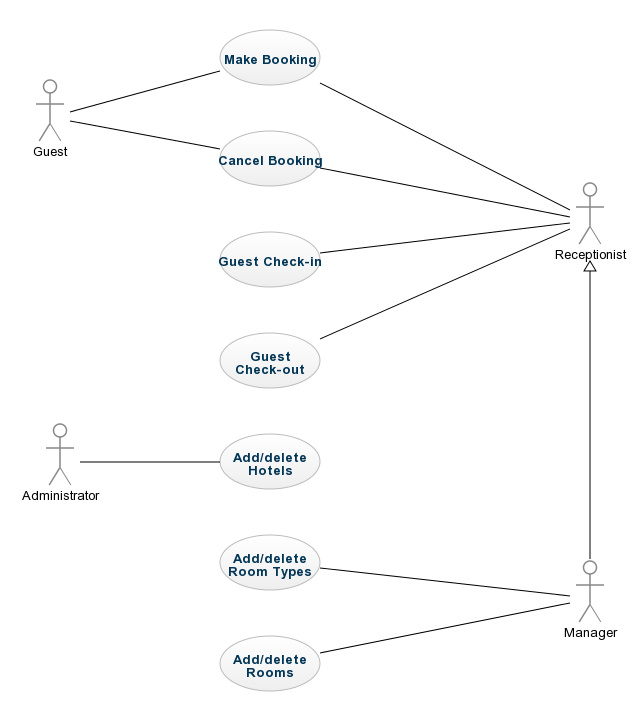
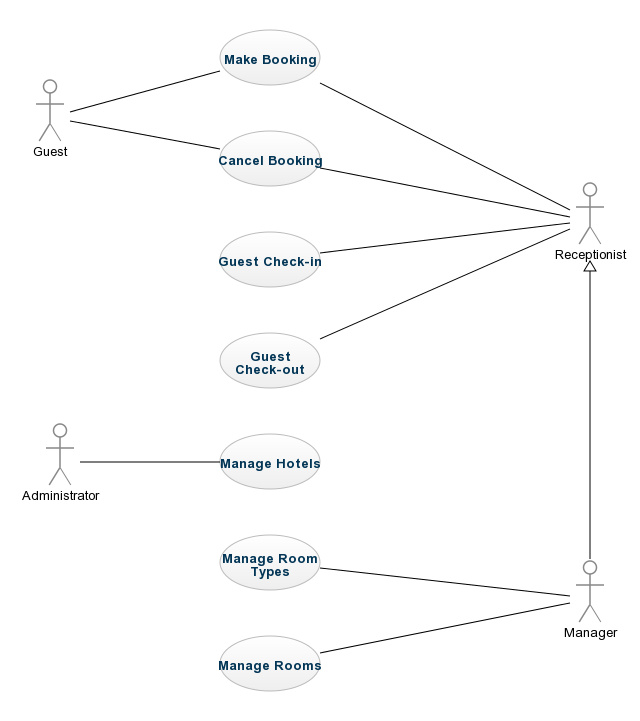
commit by markheydon using genmymodel: v20180706_191425

Changed region(s): [[0.3438, 0.6103, 0.5, 0.6713], [0.3438, 0.7628, 0.5, 0.8239], [0.3438, 0.8849, 0.5, 0.9459]]

diff --git a/model/index.html b/model/index.html
@@ -5,7 +5,7 @@
         
         <h2>Description</h2>
             <p>Simple hotel booking system meant as a starting point for a more customised solution.</p>
-        context Booking
+        TODO: Booking and Room requires some kind of status for recording the fact the Booking is active -- i.e. the guest(s) have checked-in/out.  See Use Cases for check-in and check-out.context Booking
           inv: self.numberOfNights > 0
           inv: self.checkInDate < self.checkOutDate
         
@@ -15,9 +15,6 @@
         <h2>Classifier Descriptions</h2>
         
         <ul>
-            <li> <a href='../model/Add/delete Hotels.html'>Add/delete Hotels</a>
-            <li> <a href='../model/Add/delete Room Types.html'>Add/delete Room Types</a>
-            <li> <a href='../model/Add/delete Rooms.html'>Add/delete Rooms</a>
             <li> <a href='../model/Address.html'>Address</a>
             <li> <a href='../model/Administrator.html'>Administrator</a>
             <li> <a href='../model/Booking.html'>Booking</a>
@@ -30,6 +27,9 @@
             <li> <a href='../model/Hotel.html'>Hotel</a>
             <li> <a href='../model/HotelBusiness.html'>HotelBusiness</a>
             <li> <a href='../model/Make Booking.html'>Make Booking</a>
+            <li> <a href='../model/Manage Hotels.html'>Manage Hotels</a>
+            <li> <a href='../model/Manage Room Types.html'>Manage Room Types</a>
+            <li> <a href='../model/Manage Rooms.html'>Manage Rooms</a>
             <li> <a href='../model/Manager.html'>Manager</a>
             <li> <a href='../model/PersonName.html'>PersonName</a>
             <li> <a href='../model/Real.html'>Real</a>

diff --git a/model/Booking.html b/model/Booking.html
@@ -11,13 +11,13 @@
         
         <h2>Attributes</h2>
         <dl>
-            <dt> bookingDate : Date</dt>
+            <dt> bookingDate : <a href='../model/Date.html'>Date</a></dt>
                 <dd><p>Date the booking was originally made.</p>
         </dd>
-                    <dt> checkInDate : Date</dt>
+                    <dt> checkInDate : <a href='../model/Date.html'>Date</a></dt>
                 <dd><p>The date the guest(s) are due to arrive and check-in to the hotel.</p>
         </dd>
-                    <dt> checkOutDate : Date</dt>
+                    <dt> checkOutDate : <a href='../model/Date.html'>Date</a></dt>
                 <dd><p>The date the guest(s) are due to check-out of the hotel and leave.</p>
         </dd>
                     <dt> /numberOfNights : Integer</dt>
@@ -29,13 +29,13 @@
         
         <h2>Associations</h2>
         <dl>
-            <dt> guest : Guest</dt>
+            <dt> hotel : <a href='../model/Hotel.html'>Hotel</a></dt>
                 <dd>  <i>No desription</i></dd>
-                    <dt> hotel : Hotel</dt>
+                    <dt> room : <a href='../model/Room.html'>Room</a></dt>
                 <dd>  <i>No desription</i></dd>
-                    <dt> roomType : RoomType</dt>
+                    <dt> guest : <a href='../model/Guest.html'>Guest</a></dt>
                 <dd>  <i>No desription</i></dd>
-                    <dt> room : Room</dt>
+                    <dt> roomType : <a href='../model/RoomType.html'>RoomType</a></dt>
                 <dd>  <i>No desription</i></dd>
                 
         </dl>

diff --git a/model/Guest Check-in.html b/model/Guest Check-in.html
@@ -6,14 +6,28 @@
         
         
         <h2>Description</h2>
-              <i>No desription</i>
+            <p>A guest arrives at the hotel at the specific time in a booking.</p>
+        
+        <ol>
+        	<li>The guest provides to the Receptionist a booking reference number of their name.</li>
+        	<li>The Receptionist enter the details to find the booking.</li>
+        	<li>The system retrieves the booking.</li>
+        	<li>The user confirms the check-in with the Guest to make sure the room types and duration are correct.
+        	<ol>
+        		<li><em>Booking details incorrect</em>: The Receptionist would have to potentially cancel and re-book depending on the problem.</li>
+        	</ol>
+        	</li>
+        	<li>The system records the fact the Guest(s) have checked-in.</li>
+        	<li>The Receptionist gives the room keys (or other relevant material) to the guest.</li>
+        </ol>
+        
         
         <h2>Attributes</h2>
         No additional attributes
         
         <h2>Associations</h2>
         <dl>
-            <dt> receptionist : Receptionist</dt>
+            <dt> receptionist : <a href='../model/Receptionist.html'>Receptionist</a></dt>
                 <dd>  <i>No desription</i></dd>
                 
         </dl>

diff --git a/model/Cancel Booking.html b/model/Cancel Booking.html
@@ -6,16 +6,26 @@
         
         
         <h2>Description</h2>
-              <i>No desription</i>
+            <p>A booking is cancelled.</p>
+        
+        <ol>
+        	<li>A Guest or Receptionist requests to cancel a booking.</li>
+        	<li>The user enters the booking reference number or the dates and guest name to find the booking.</li>
+        	<li>The system retrieves the booking.</li>
+        	<li>The user confirms they want to cancel the booking.</li>
+        	<li>The system cancels the booking by de-allocating the rooms.</li>
+        	<li>The booking is cancelled and the user is informed.</li>
+        </ol>
+        
         
         <h2>Attributes</h2>
         No additional attributes
         
         <h2>Associations</h2>
         <dl>
-            <dt> guest : Guest</dt>
+            <dt> guest : <a href='../model/Guest.html'>Guest</a></dt>
                 <dd>  <i>No desription</i></dd>
-                    <dt> receptionist : Receptionist</dt>
+                    <dt> receptionist : <a href='../model/Receptionist.html'>Receptionist</a></dt>
                 <dd>  <i>No desription</i></dd>
                 
         </dl>

diff --git a/model/Guest Check-out.html b/model/Guest Check-out.html
@@ -6,14 +6,25 @@
         
         
         <h2>Description</h2>
-              <i>No desription</i>
+            <p>A guest is ready to leave the hotel and checks-out.</p>
+        
+        <ol>
+        	<li>The guest request to check-out.</li>
+        	<li>The Receptionist enters the room name(/number).</li>
+        	<li>The system retrieves the details.</li>
+        	<li>The Receptionist deals with any billing issues -- outside the scope of the system at this point.</li>
+        	<li>The guest pays the bill -- again outside the scope.</li>
+        	<li>The user confirms the check-out.</li>
+        	<li>The system records the check-out against the Room(s) and the Booking.</li>
+        </ol>
+        
         
         <h2>Attributes</h2>
         No additional attributes
         
         <h2>Associations</h2>
         <dl>
-            <dt> receptionist : Receptionist</dt>
+            <dt> receptionist : <a href='../model/Receptionist.html'>Receptionist</a></dt>
                 <dd>  <i>No desription</i></dd>
                 
         </dl>

diff --git a/model/Receptionist.html b/model/Receptionist.html
@@ -14,13 +14,13 @@
         
         <h2>Associations</h2>
         <dl>
-            <dt> make Booking : Make Booking</dt>
+            <dt> guest Check-in : <a href='../model/Guest Check-in.html'>Guest Check-in</a></dt>
                 <dd>  <i>No desription</i></dd>
-                    <dt> guest Check-out : Guest Check-out</dt>
+                    <dt> cancel Booking : <a href='../model/Cancel Booking.html'>Cancel Booking</a></dt>
                 <dd>  <i>No desription</i></dd>
-                    <dt> guest Check-in : Guest Check-in</dt>
+                    <dt> make Booking : <a href='../model/Make Booking.html'>Make Booking</a></dt>
                 <dd>  <i>No desription</i></dd>
-                    <dt> cancel Booking : Cancel Booking</dt>
+                    <dt> guest Check-out : <a href='../model/Guest Check-out.html'>Guest Check-out</a></dt>
                 <dd>  <i>No desription</i></dd>
                 
         </dl>

diff --git a/model/RoomType.html b/model/RoomType.html
@@ -14,7 +14,7 @@
             <dt> name : String</dt>
                 <dd><p>Name of the room type, e.g. Single, Double, Twin, Suite, Conference Room, etc.</p>
         </dd>
-                    <dt> pricePerNight : Real</dt>
+                    <dt> pricePerNight : <a href='../model/Real.html'>Real</a></dt>
                 <dd><p>The price of staying one night in this type of room in the linked hotel.</p>
         </dd>
                 
@@ -23,9 +23,9 @@
         
         <h2>Associations</h2>
         <dl>
-            <dt> booking : Booking</dt>
+            <dt> room : <a href='../model/Room.html'>Room</a></dt>
                 <dd>  <i>No desription</i></dd>
-                    <dt> room : Room</dt>
+                    <dt> booking : <a href='../model/Booking.html'>Booking</a></dt>
                 <dd>  <i>No desription</i></dd>
                 
         </dl>

diff --git a/model/Manage Hotels.html b/model/Manage Hotels.html
@@ -1,20 +1,19 @@
 <html>
-    <header><title>Administrator</title></header>
+    <header><title>Manage Hotels</title></header>
     <body>
-        <h1>Administrator</h1>
+        <h1>Manage Hotels</h1>
         
         
         
         <h2>Description</h2>
-            <p>Overall system administrator.</p>
-        
+              <i>No desription</i>
         
         <h2>Attributes</h2>
         No additional attributes
         
         <h2>Associations</h2>
         <dl>
-            <dt> add/delete Hotels : <a href='../model/Manage Hotels.html'>Manage Hotels</a></dt>
+            <dt> administrator : <a href='../model/Administrator.html'>Administrator</a></dt>
                 <dd>  <i>No desription</i></dd>
                 
         </dl>

diff --git a/model/Manage Room Types.html b/model/Manage Room Types.html
@@ -1,20 +1,19 @@
 <html>
-    <header><title>Administrator</title></header>
+    <header><title>Manage Room Types</title></header>
     <body>
-        <h1>Administrator</h1>
+        <h1>Manage Room Types</h1>
         
         
         
         <h2>Description</h2>
-            <p>Overall system administrator.</p>
-        
+              <i>No desription</i>
         
         <h2>Attributes</h2>
         No additional attributes
         
         <h2>Associations</h2>
         <dl>
-            <dt> add/delete Hotels : <a href='../model/Manage Hotels.html'>Manage Hotels</a></dt>
+            <dt> manager : <a href='../model/Manager.html'>Manager</a></dt>
                 <dd>  <i>No desription</i></dd>
                 
         </dl>

diff --git a/model/Manage Rooms.html b/model/Manage Rooms.html
@@ -1,20 +1,19 @@
 <html>
-    <header><title>Administrator</title></header>
+    <header><title>Manage Rooms</title></header>
     <body>
-        <h1>Administrator</h1>
+        <h1>Manage Rooms</h1>
         
         
         
         <h2>Description</h2>
-            <p>Overall system administrator.</p>
-        
+              <i>No desription</i>
         
         <h2>Attributes</h2>
         No additional attributes
         
         <h2>Associations</h2>
         <dl>
-            <dt> add/delete Hotels : <a href='../model/Manage Hotels.html'>Manage Hotels</a></dt>
+            <dt> manager : <a href='../model/Manager.html'>Manager</a></dt>
                 <dd>  <i>No desription</i></dd>
                 
         </dl>

diff --git a/model/Manager.html b/model/Manager.html
@@ -16,9 +16,9 @@
         
         <h2>Associations</h2>
         <dl>
-            <dt> add/delete Rooms : Add/delete Rooms</dt>
+            <dt> add/delete Rooms : <a href='../model/Manage Rooms.html'>Manage Rooms</a></dt>
                 <dd>  <i>No desription</i></dd>
-                    <dt> add/delete Room Types : Add/delete Room Types</dt>
+                    <dt> add/delete Room Types : <a href='../model/Manage Room Types.html'>Manage Room Types</a></dt>
                 <dd>  <i>No desription</i></dd>
                 
         </dl>

diff --git a/model/Guest.html b/model/Guest.html
@@ -14,9 +14,9 @@
         
         <h2>Associations</h2>
         <dl>
-            <dt> make Booking : Make Booking</dt>
+            <dt> cancel Booking : <a href='../model/Cancel Booking.html'>Cancel Booking</a></dt>
                 <dd>  <i>No desription</i></dd>
-                    <dt> cancel Booking : Cancel Booking</dt>
+                    <dt> make Booking : <a href='../model/Make Booking.html'>Make Booking</a></dt>
                 <dd>  <i>No desription</i></dd>
                 
         </dl>
